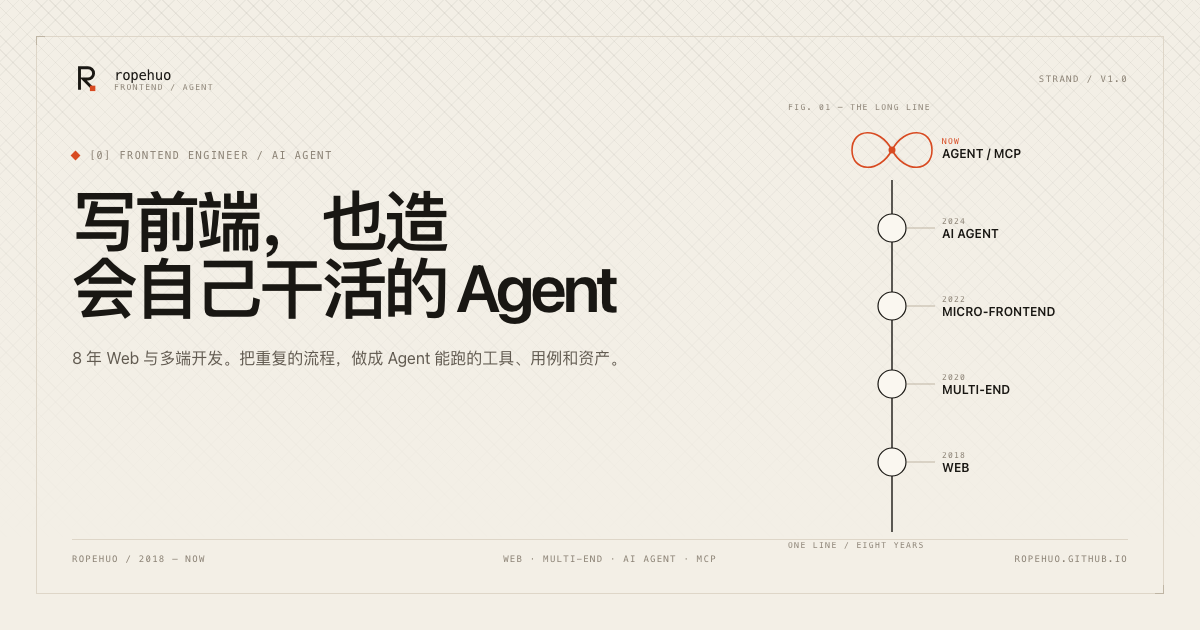
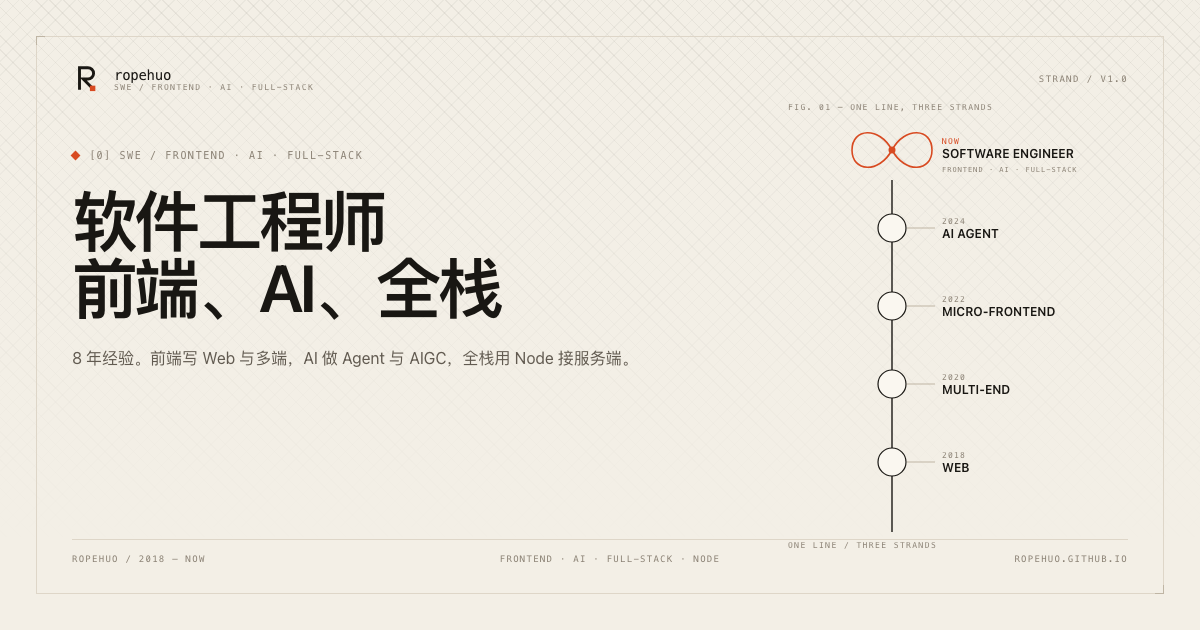
feat: position RopeHuo as a software engineer across frontend, AI and full-stack

diff --git a/content/home.ts b/content/home.ts
@@ -4,10 +4,10 @@ import type { HomeContent } from './types'
 export const homeContent: HomeContent = {
   meta: {},
   hero: {
-    eyebrow: '[0] frontend engineer / ai agent',
-    headline: ['写前端，也造', '会自己干活的 Agent'],
+    eyebrow: '[0] SWE / frontend · ai · full-stack',
+    headline: ['软件工程师', '前端、AI、全栈'],
     intro:
-      '我是 RopeHuo，8 年 Web 与多端开发。现在在一家互联网公司做零售业务研发与 AI 应用落地，也把那些重复的流程，做成 agent 能跑的工具、用例和资产。',
+      '我是 RopeHuo，8 年经验的软件工程师。前端写 Web 与多端，AI 做 Agent 与 AIGC 落地，全栈用 Node 接服务端业务、接口、数据与部署。',
     actions: [
       { label: '查看项目', href: '/projects', emphasis: 'primary' },
       { label: '读博客', href: '/blog', emphasis: 'secondary' },
@@ -22,31 +22,28 @@ export const homeContent: HomeContent = {
   trust: {
     period: '[ 2018 — now ]',
     organizations: ['互联网大厂', '电商零售', 'AI Agent'],
-    suffix: '— 8 年，一直在写前端。',
+    suffix: '— 8 年，从界面写到服务端。',
   },
   about: {
     label: '关于我',
     paragraphs: [
-      '我是 RopeHuo，2018 年开始做前端。做过消费品牌积分商城的多端，也带过前端小组；2022 年加入一家互联网大厂，先后做过零售与多端相关业务。',
-      '最近两年主要把 AI 接进真实业务流程：在开放平台做 AI 开发助手，在零售业务里做 AI 生图与 Agent 物料，也主导了一个通用测试智能体。工作之外，我把踩过的坑写成笔记。',
+      '我是 RopeHuo，2018 年开始做开发。做过消费品牌积分商城的多端，也带过前端小组；2022 年加入一家互联网大厂，先后做过零售与多端相关业务。',
+      '最近两年主要把 AI 接进真实业务流程：在开放平台做 AI 开发助手，在零售业务里做 AI 生图与 Agent 物料，也主导了一个通用测试智能体。',
+      '后端主要用 Node：接服务端业务、接口、数据与部署。工作之外，我把踩过的坑写成笔记。',
       '如果用一个词概括我在做的事，是「编绳」：把分散的系统、团队和想法，接成一条能承重的线，再把它点亮。',
     ],
     features: [
       {
-        title: 'AI Agent',
+        title: '前端工程',
+        body: 'React / Vue / TypeScript，Web 与多端；微前端、小程序 SaaS 底座，构建与发布链路。',
+      },
+      {
+        title: 'AI 应用',
         body: '把 LLM 接进真实业务：Agent Skill、MCP、Playwright 用例生成，以及 AIGC 能力落地。',
       },
       {
-        title: '前端工程',
-        body: 'React / Vue / TypeScript，微前端、小程序 SaaS 底座，构建与发布链路。',
-      },
-      {
-        title: '多端交付',
-        body: '微信小程序、uni-app、Taro、企业微信 JS-SDK，一套代码覆盖多个端。',
-      },
-      {
-        title: '团队与文档',
-        body: '带过前端小组；习惯把方案写成能复用的文档、脚手架和技术规范。',
+        title: '全栈 / Node',
+        body: '用 Node 接服务端业务、接口、数据与部署；不只画页面，也把后端这一段接住。',
       },
     ],
   },
@@ -57,16 +54,16 @@ export const homeContent: HomeContent = {
   stats: {
     label: '方向',
     items: [
-      { value: '8', label: '年前端' },
-      { value: 'AI', label: 'Agent / AIGC' },
-      { value: 'Web', label: '多端交付' },
-      { value: 'Node', label: '全栈协作' },
+      { value: '8', label: '年经验' },
+      { value: '前端', label: 'Web · 多端' },
+      { value: 'AI', label: 'Agent · AIGC' },
+      { value: '全栈', label: 'Node · 数据 · 部署' },
     ],
   },
   contact: {
     label: 'contact / 联系',
-    headline: ['聊聊前端、Agent，', '或者下一件值得做的事。'],
-    body: '如果你在做前端工程、AI Agent 落地，或者只是想聊聊某个想法，欢迎来信。',
+    headline: ['聊聊前端、AI、全栈，', '或者下一件值得做的事。'],
+    body: '如果你在做前端工程、AI Agent 落地、Node 全栈，或者只是想聊聊某个想法，欢迎来信。',
     actions: [
       { label: '发邮件', href: `mailto:${siteContent.email}`, emphasis: 'primary' },
       { label: 'GitHub', href: siteContent.github, external: true, emphasis: 'secondary' },

diff --git a/content/resume.ts b/content/resume.ts
@@ -3,12 +3,12 @@ import type { ResumeContent } from './types'
 export const resumeContent: ResumeContent = {
   meta: {
     title: '简历',
-    description: 'RopeHuo 的简历：前端工程师，8 年 Web 与多端开发，关注 AI Agent 与 AIGC 落地。',
+    description: 'RopeHuo 的简历：软件工程师，8 年经验，工作围绕前端、AI 与全栈（Node）展开。',
   },
   header: {
     index: '[3]',
     label: 'resume',
-    role: '前端工程师 · AI Agent',
+    role: '软件工程师',
     experience: '8 年经验',
     printLabel: '打印 / PDF',
     printNote: '点右上角「打印 / PDF」，用浏览器打印可以得到一份干净的简历。',
@@ -19,7 +19,7 @@ export const resumeContent: ResumeContent = {
     { label: '博客园', value: 'cnblogs.com/rope', href: 'https://www.cnblogs.com/rope', external: true },
   ],
   intro:
-    '2016 年开始接触前端，2018 年正式从事前端开发。做过大厂业务研发，也带过前端小组；熟悉 React / Vue / 小程序与 Node.js，近年专注 AI Agent 与 AIGC 能力落地。习惯把一次性的人工流程，沉淀成可复用的工具、用例和资产。',
+    '2016 年开始接触前端，2018 年正式从事开发。做过大厂业务研发，也带过前端小组；熟悉 React / Vue / 小程序与 Node.js。工作围绕前端、AI、全栈展开，后端主要用 Node 接服务端业务、接口、数据与部署。习惯把一次性的人工流程，沉淀成可复用的工具、用例和资产。',
   sections: {
     skills: '技能清单',
     experience: '工作经历',
@@ -37,19 +37,19 @@ export const resumeContent: ResumeContent = {
       items: ['TypeScript', 'JavaScript', 'React', 'Vue', 'NuxtJS'],
     },
     {
+      label: '全栈',
+      items: ['Node.js', 'EggJS', '接口设计', '数据链路', '部署 / 灰度'],
+    },
+    {
       label: '多端',
       items: ['微信小程序', 'uni-app', 'Taro', 'Electron', '企业微信 JS-SDK'],
     },
     {
-      label: '工程化',
-      items: ['Vite', 'Webpack', 'micro-app', 'qiankun', 'Node.js', 'EggJS'],
+      label: '工程化与测试',
+      items: ['Vite', 'Webpack', 'micro-app', 'qiankun', 'Playwright', 'Jest', 'ECharts'],
     },
     {
-      label: '测试与可视化',
-      items: ['Playwright', 'Jest', 'ECharts'],
-    },
-    {
-      label: '协作与部署',
+      label: '协作',
       items: ['Git', 'GitHub Actions', '私有 npm', '技术文档'],
     },
   ],
@@ -62,8 +62,8 @@ export const resumeContent: ResumeContent = {
         '负责多条零售业务线的 B/C 端研发，覆盖 Web、小程序与 App 多端。',
         '参与 AI 开发助手、AI 生图与 Agent 物料能力建设，把 AI 接进建品、客服与对话等既有业务流程。',
         '主导通用测试智能体的 Agent Skill + MCP Server 搭建，支持页面盲探与按源码生成 Playwright 用例；参与企业微信 AIGC 专项。',
-        '推动前后端分离、系统融合、CDN 化、骨架屏与灰度发布体系，负责反爬治理、监控与埋点 SDK 接入。',
-        '负责网关管理平台、自研 VSCode 插件、UI 框架与多页面脚手架，沉淀可复用的工程方案。',
+        '推动前后端分离、系统融合、CDN 化、骨架屏与灰度发布体系；用 Node / EggJS 承接服务端业务、接口与数据链路。',
+        '负责网关管理平台、反爬治理、监控与埋点 SDK 接入；也做自研 VSCode 插件、UI 框架与多页面脚手架，沉淀可复用的工程方案。',
       ],
     },
     {

diff --git a/index.html b/index.html
@@ -3,10 +3,10 @@
   <head>
     <meta charset="UTF-8" />
     <meta name="viewport" content="width=device-width, initial-scale=1.0" />
-    <title>RopeHuo — 前端工程师 · AI Agent</title>
+    <title>RopeHuo — 软件工程师 · 前端 / AI / 全栈</title>
     <meta
       name="description"
-      content="RopeHuo 的个人网站：8 年 Web 与多端开发，关注 AI Agent、MCP、AIGC 与工程化。"
+      content="RopeHuo 的个人网站：软件工程师，8 年经验，工作围绕前端、AI 与全栈（Node）展开。"
     />
     <meta name="author" content="RopeHuo" />
     <meta name="theme-color" content="#f3efe6" media="(prefers-color-scheme: light)" />
@@ -14,17 +14,17 @@
 
     <meta property="og:type" content="website" />
     <meta property="og:site_name" content="RopeHuo" />
-    <meta property="og:title" content="RopeHuo — 前端工程师 · AI Agent" />
+    <meta property="og:title" content="RopeHuo — 软件工程师 · 前端 / AI / 全栈" />
     <meta
       property="og:description"
-      content="8 年 Web 与多端开发，关注 AI Agent、MCP、AIGC 与工程化。"
+      content="软件工程师，8 年经验，工作围绕前端、AI 与全栈（Node）展开。"
     />
     <meta property="og:url" content="https://ropehuo.github.io/" />
     <meta property="og:locale" content="zh_CN" />
     <meta property="og:image" content="https://ropehuo.github.io/og.png" />
     <meta property="og:image:width" content="1200" />
     <meta property="og:image:height" content="630" />
-    <meta property="og:image:alt" content="RopeHuo — 前端工程师 · AI Agent" />
+    <meta property="og:image:alt" content="RopeHuo — 软件工程师 · 前端 / AI / 全栈" />
     <meta name="twitter:card" content="summary_large_image" />
     <meta name="twitter:image" content="https://ropehuo.github.io/og.png" />
 
@@ -37,8 +37,8 @@
         "@type": "Person",
         "name": "RopeHuo",
         "url": "https://ropehuo.github.io/",
-        "jobTitle": "前端工程师",
-        "knowsAbout": ["前端开发", "AI Agent", "MCP", "AIGC", "微前端"],
+        "jobTitle": "软件工程师",
+        "knowsAbout": ["前端开发", "AI Agent", "MCP", "AIGC", "全栈开发", "Node.js"],
         "sameAs": ["https://github.com/RopeHuo", "https://www.cnblogs.com/rope"]
       }
     </script>

diff --git a/src/ui/CareerKnot.tsx b/src/ui/CareerKnot.tsx
@@ -17,7 +17,7 @@ export function CareerKnot() {
         viewBox="0 0 420 420"
         className="relative w-full"
         role="img"
-        aria-label="RopeHuo 的实践时间线：2018 Web，2020 多端，2022 微前端，2024 AI Agent，现在 Agent 与 MCP"
+        aria-label="RopeHuo 的实践路径：2018 Web，2020 多端，2022 微前端，2024 AI Agent；现在是软件工程师，工作覆盖前端、AI 与全栈"
       >
         <g
           stroke="currentColor"
@@ -145,17 +145,27 @@ export function CareerKnot() {
             letterSpacing="0.2"
             fill="var(--c-ink)"
           >
-            AGENT / MCP
+            SOFTWARE ENGINEER
+          </text>
+          <text
+            x="184"
+            y="76"
+            fontFamily={MONO}
+            fontSize="7"
+            letterSpacing="1"
+            fill="var(--c-dim)"
+          >
+            FRONTEND · AI · FULL-STACK
           </text>
         </g>
 
         <text x="184" y="24" fontFamily={MONO} fontSize="8" letterSpacing="1.4" fill="var(--c-dim)">
-          FIG. 01 — THE LONG LINE
+          FIG. 01 — ONE LINE, THREE STRANDS
         </text>
       </svg>
 
       <figcaption className="relative mt-2 flex items-center justify-between gap-4 border-t border-line pt-2 font-mono text-[8px] uppercase tracking-[0.14em] text-dim">
-        <span>one line / eight years</span>
+        <span>one line / three strands</span>
         <span>2018 — now</span>
       </figcaption>
     </figure>

diff --git a/content/site.ts b/content/site.ts
@@ -2,16 +2,16 @@ import type { SiteContent } from './types'
 
 export const siteContent: SiteContent = {
   name: 'RopeHuo',
-  role: '前端工程师 · AI Agent',
-  tagline: '写前端，也造会自己干活的 Agent。',
-  description: 'RopeHuo 的个人网站：8 年 Web 与多端开发，关注 AI Agent、MCP、AIGC 与工程化。',
+  role: '软件工程师',
+  tagline: '软件工程师，做前端、AI 和全栈。',
+  description: 'RopeHuo 的个人网站：软件工程师，8 年经验，工作围绕前端、AI 与全栈（Node）展开。',
   url: 'https://ropehuo.github.io',
   email: 'RopeHuo@163.com',
   github: 'https://github.com/RopeHuo',
   cnblogs: 'https://www.cnblogs.com/rope',
   startYear: 2018,
   wordmark: 'ropehuo',
-  railTagline: 'frontend / agent',
+  railTagline: 'swe / frontend · ai · full-stack',
   nav: [
     { href: '/', label: '首页', index: '0', end: true },
     { href: '/projects', label: '项目', index: '1' },
@@ -31,8 +31,8 @@ export const siteContent: SiteContent = {
     wordmarkLabel: 'ropehuo / 2026',
   },
   meta: {
-    defaultTitle: 'RopeHuo — 前端工程师 · AI Agent',
+    defaultTitle: 'RopeHuo — 软件工程师 · 前端 / AI / 全栈',
     defaultDescription:
-      'RopeHuo 的个人网站：8 年 Web 与多端开发，关注 AI Agent、MCP、AIGC 与工程化。',
+      'RopeHuo 的个人网站：软件工程师，8 年经验，工作围绕前端、AI 与全栈（Node）展开。',
   },
 }

diff --git a/content/projects.ts b/content/projects.ts
@@ -3,14 +3,14 @@ import type { ProjectsContent } from './types'
 export const projectsContent: ProjectsContent = {
   meta: {
     title: '项目',
-    description: 'RopeHuo 的项目与作品：AI Agent、AIGC、微前端、多端与工程化实践。',
+    description: 'RopeHuo 的项目与作品：前端、AI Agent、全栈与工程化实践。',
   },
   header: {
     index: '[1]',
     label: 'selected work',
     title: '项目 / Projects',
     intro:
-      '从前端业务到工程底座，再到这两年的 AI Agent。只保留可以公开描述的架构思路；客户、内部系统与业务细节已做泛化。',
+      '从前端业务到全栈链路，再到这两年的 AI Agent。只保留可以公开描述的架构思路；客户、内部系统与业务细节已做泛化。',
   },
   filters: [
     { key: 'all', label: '全部' },

diff --git a/src/sections/home/HeroSection.tsx b/src/sections/home/HeroSection.tsx
@@ -38,8 +38,8 @@ export function HeroSection({ content }: { content: HomeContent['hero'] }) {
 
       <div className="relative mt-12 grid grid-cols-2 gap-3 border-t border-line pt-4 font-mono text-[9px] uppercase tracking-[0.14em] text-dim sm:grid-cols-4">
         <span>EST. 2018</span>
-        <span>WEB / MULTI-END</span>
-        <span>AI AGENT / MCP</span>
+        <span>FRONTEND / MULTI-END</span>
+        <span>AI / FULL-STACK</span>
         <span className="sm:text-right">SCROLL ↓</span>
       </div>
     </section>

diff --git a/src/sections/home/StatsSection.tsx b/src/sections/home/StatsSection.tsx
@@ -3,7 +3,7 @@ import { Section } from '../../ui/Section'
 
 export function StatsSection({ content }: { content: HomeContent['stats'] }) {
   return (
-    <Section index="04" label={content.label} note="practice / 04 tracks">
+    <Section index="04" label={content.label} note="practice / 03 tracks">
       <div className="grid grid-cols-2 border-t border-line sm:grid-cols-4">
         {content.items.map((stat, index) => (
           <div
